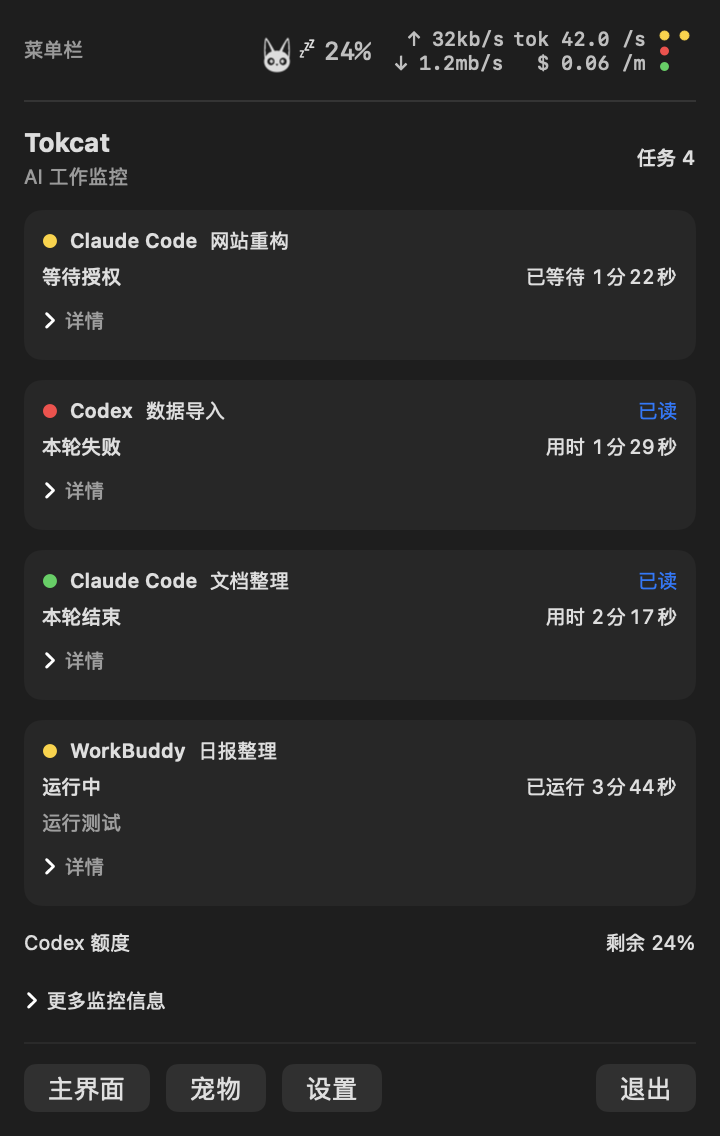
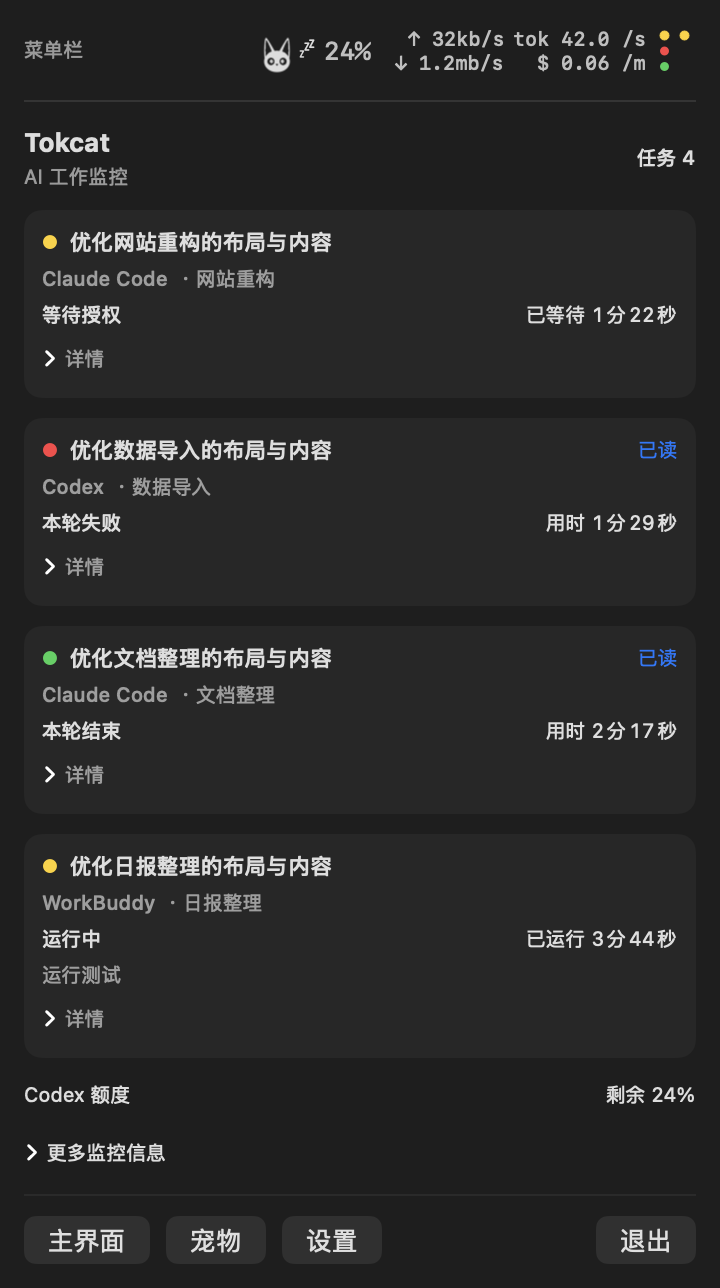
fix: show conversation titles and merge duplicate Codex session identities

diff --git a/Tests/TokcatKitTests/CodexSessionMetadataTests.swift b/Tests/TokcatKitTests/CodexSessionMetadataTests.swift
@@ -1,0 +1,83 @@
+import XCTest
+@testable import TokcatKit
+
+final class CodexSessionMetadataTests: XCTestCase {
+    private func directory() throws -> URL {
+        let url = FileManager.default.temporaryDirectory.appendingPathComponent(UUID().uuidString)
+        try FileManager.default.createDirectory(at: url, withIntermediateDirectories: true)
+        addTeardownBlock { try? FileManager.default.removeItem(at: url) }
+        return url
+    }
+
+    func testLargeHeaderPreservesConversationIdentityAndProject() throws {
+        let url = try directory().appendingPathComponent("rollout.jsonl")
+        let row: [String: Any] = ["type": "session_meta", "payload": ["id": "real-session", "cwd": "/demo",
+            "base_instructions": String(repeating: "x", count: 40_000)]]
+        var data = try JSONSerialization.data(withJSONObject: row); data.append(10)
+        try data.write(to: url)
+        let parser = CodexSessionParser.bootstrap(at: url)
+        XCTAssertEqual(parser.sessionID, "real-session")
+        XCTAssertEqual(parser.projectPath, "/demo")
+    }
+
+    func testOversizedHeaderUsesFirstUUIDInResumedFilename() throws {
+        let id = UUID().uuidString
+        let url = try directory().appendingPathComponent("rollout-2026-09-23T02-00-00-\(id)_\(UUID().uuidString).jsonl")
+        try Data(repeating: 32, count: 1_100_000).write(to: url)
+        XCTAssertEqual(CodexSessionParser.bootstrap(at: url).sessionID, id)
+    }
+
+    func testTitleReaderUsesLatestNameAndRetriesPartialWrite() throws {
+        let url = try directory().appendingPathComponent("session_index.jsonl")
+        let reader = CodexSessionTitleReader(url: url)
+        try Data("{\"id\":\"s\",\"thread_name\":\"旧标题\"}\n".utf8).write(to: url)
+        XCTAssertEqual(reader.read()["s"], "旧标题")
+        try Data("{\"id\":\"s\",\"thread_name\":\"旧标题\"}\n{\"id\":\"s\",\"thread_name\":\"新标题\"}".utf8).write(to: url)
+        XCTAssertEqual(reader.read()["s"], "旧标题")
+        let handle = try FileHandle(forWritingTo: url)
+        try handle.seekToEnd(); try handle.write(contentsOf: Data([10])); try handle.close()
+        XCTAssertEqual(reader.read()["s"], "新标题")
+        XCTAssertEqual(reader.read()["s"], "新标题")
+    }
+
+    func testMonitorRepairsPersistedFilenameDuplicateAndKeepsUnreadHistory() throws {
+        let root = try directory()
+        let logs = root.appendingPathComponent("sessions")
+        let support = root.appendingPathComponent("support")
+        try FileManager.default.createDirectory(at: logs, withIntermediateDirectories: true)
+        try FileManager.default.createDirectory(at: support, withIntermediateDirectories: true)
+        let file = logs.appendingPathComponent("rollout-resumed.jsonl")
+        let now = Date()
+        let old = AgentSession(event: .init(sessionID: "canonical", source: .codexCLI,
+            timestamp: now.addingTimeInterval(-300), kind: .started, turnID: "turn"))
+        var alias = AgentSession(event: .init(sessionID: "rollout-resumed", source: .codexCLI,
+            timestamp: now.addingTimeInterval(-200), kind: .started, turnID: "turn"))
+        alias.apply(.init(sessionID: alias.sessionID, source: .codexCLI,
+                         timestamp: now.addingTimeInterval(-100), kind: .completed, turnID: "turn"))
+        try JSONEncoder().encode([old, alias]).write(to: support.appendingPathComponent("agent-sessions.json"))
+        try JSONEncoder().encode([AgentTaskRecord(session: old), AgentTaskRecord(session: alias)]).write(to: support.appendingPathComponent("agent-task-history.json"))
+        let rows: [[String: Any]] = [
+            ["type": "session_meta", "payload": ["id": "canonical", "cwd": "/demo", "base_instructions": String(repeating: "x", count: 25_000)]],
+            ["type": "ignored", "payload": ["padding": String(repeating: "x", count: 530_000)]],
+            ["type": "event_msg", "timestamp": ISO8601DateFormatter().string(from: now.addingTimeInterval(-100)),
+             "payload": ["type": "task_complete", "turn_id": "turn"]]
+        ]
+        var data = Data()
+        for row in rows { data.append(try JSONSerialization.data(withJSONObject: row)); data.append(10) }
+        try data.write(to: file)
+        try Data("{\"id\":\"canonical\",\"thread_name\":\"真实对话标题\"}\n".utf8).write(to: root.appendingPathComponent("session_index.jsonl"))
+        let monitor = AgentSessionMonitor(codexDirectory: logs, supportDirectory: support,
+                                          recentRoots: [], workBuddyDatabase: nil)
+        let result = monitor.poll(enabled: [.codexCLI], now: now)
+        XCTAssertEqual(result.sessions.count, 1)
+        XCTAssertEqual(result.sessions.first?.sessionID, "canonical")
+        XCTAssertEqual(result.sessions.first?.state, .completed)
+        XCTAssertEqual(result.sessions.first?.unread, true)
+        XCTAssertEqual(result.tasks.count, 1)
+        XCTAssertEqual(result.tasks.first?.displayTitle, "真实对话标题")
+        XCTAssertTrue(result.alerts.isEmpty)
+        let restarted = AgentSessionMonitor(codexDirectory: logs, supportDirectory: support,
+                                            recentRoots: [], workBuddyDatabase: nil)
+        XCTAssertEqual(restarted.poll(enabled: [.codexCLI], now: now).sessions.count, 1)
+    }
+}

diff --git a/Sources/TokcatKit/Monitor/AgentSessionMonitor.swift b/Sources/TokcatKit/Monitor/AgentSessionMonitor.swift
@@ -18,6 +18,7 @@ public final class AgentSessionMonitor {
     private var lastSaved: [AgentSession] = []
     private var history = AgentTaskHistory()
     private var lastSavedTasks: [AgentTaskRecord] = []
+    private let codexTitles: CodexSessionTitleReader
     private let recentReader: RecentAgentTaskReader
     private let workBuddyReader: WorkBuddyTaskReader?
 
@@ -26,6 +27,7 @@ public final class AgentSessionMonitor {
                 recentRoots: [RecentAgentTaskReader.Root] = RecentAgentTaskReader.defaultRoots,
                 workBuddyDatabase: URL? = WorkBuddyTaskReader.defaultDatabaseURL) {
         self.codexDirectory = codexDirectory
+        self.codexTitles = CodexSessionTitleReader(url: codexDirectory.deletingLastPathComponent().appendingPathComponent("session_index.jsonl"))
         self.supportDirectory = supportDirectory
         self.launchedAt = now
         self.recentReader = RecentAgentTaskReader(roots: recentRoots)
@@ -63,12 +65,12 @@ public final class AgentSessionMonitor {
                 let bootstrap = offsets[path] == nil || size < (offsets[path] ?? 0)
                 guard let handle = try? FileHandle(forReadingFrom: info.url) else { continue }
                 defer { try? handle.close() }
-                var parser = parsers[path] ?? CodexSessionParser(sessionID: info.url.deletingPathExtension().lastPathComponent)
+                var parser = bootstrap ? CodexSessionParser.bootstrap(at: info.url)
+                    : (parsers[path] ?? CodexSessionParser.bootstrap(at: info.url))
                 if bootstrap {
-                    // Metadata is at the beginning; the lifecycle tail is bounded independently.
-                    if let prefix = try? handle.read(upToCount: 16_384),
-                       let first = prefix.split(separator: 10).first {
-                        _ = parser.parse(Data(first))
+                    let legacyID = info.url.deletingPathExtension().lastPathComponent
+                    if legacyID != parser.sessionID {
+                        repairCodexIdentity(from: legacyID, to: parser.sessionID)
                     }
                 }
                 let start = bootstrap ? (size > 524_288 ? size - 524_288 : 0) : offsets[path]!
@@ -134,6 +136,7 @@ public final class AgentSessionMonitor {
         }
         sessions = sessions.filter { now.timeIntervalSince($0.value.lastActivityAt) < 7 * 86_400 }
         for record in recentReader.poll(enabled: enabled, now: now) { history.observeActivity(record) }
+        if enabled.contains(.codexCLI) { history.updateTitles(codexTitles.read(), source: .codexCLI) }
         history.prune(now: now)
         firstPoll = false
         previousEnabled = enabled
@@ -159,6 +162,17 @@ public final class AgentSessionMonitor {
            next.state.isWaiting || next.state == .completed || next.state == .failed {
             alerts[id] = next
         }
+    }
+
+    private func repairCodexIdentity(from legacyID: String, to sessionID: String) {
+        let oldKey = AgentSource.codexCLI.rawValue + ":" + legacyID
+        if var legacy = sessions.removeValue(forKey: oldKey) {
+            legacy.sessionID = sessionID
+            if sessions[legacy.id].map({ $0.lastActivityAt < legacy.lastActivityAt }) ?? true {
+                sessions[legacy.id] = legacy
+            }
+        }
+        history.reidentifySession(source: .codexCLI, from: legacyID, to: sessionID)
     }
 
     public func markRead(id: String, enabled: Set<AgentSource>) -> [AgentSession] {

diff --git a/Sources/TokcatKit/Monitor/CodexSessionTitleReader.swift b/Sources/TokcatKit/Monitor/CodexSessionTitleReader.swift
@@ -1,0 +1,39 @@
+import Foundation
+
+/// Read Codex's own conversation names; never derive titles from private message bodies.
+public final class CodexSessionTitleReader {
+    private let url: URL
+    private var signature: String?
+    private var cached: [String: String] = [:]
+
+    public init(url: URL) { self.url = url }
+
+    public func read() -> [String: String] {
+        guard let attributes = try? FileManager.default.attributesOfItem(atPath: url.path),
+              let size = (attributes[.size] as? NSNumber)?.uint64Value,
+              let modified = attributes[.modificationDate] as? Date else { return cached }
+        let next = "\(size):\(modified.timeIntervalSince1970)"
+        guard signature != next else { return cached }
+        guard let handle = try? FileHandle(forReadingFrom: url) else { return cached }
+        defer { try? handle.close() }
+        let start = size > 2_097_152 ? size - 2_097_152 : 0
+        do {
+            try handle.seek(toOffset: start)
+            let data = try handle.read(upToCount: 2_097_152) ?? Data()
+            // Ignore a partial trailing line and retry it after the writer finishes.
+            guard let end = data.lastIndex(of: 10) else { return cached }
+            var lines = data.prefix(through: end).split(separator: 10)
+            if start > 0 && !lines.isEmpty { lines.removeFirst() }
+            var titles: [String: String] = [:]
+            for line in lines {
+                guard let row = try? JSONSerialization.jsonObject(with: Data(line)) as? [String: Any],
+                      let id = row["id"] as? String, let raw = row["thread_name"] as? String else { continue }
+                let title = raw.trimmingCharacters(in: .whitespacesAndNewlines)
+                if !title.isEmpty { titles[id] = String(title.prefix(200)) }
+            }
+            cached = titles
+            signature = next
+        } catch { return cached }
+        return cached
+    }
+}

diff --git a/Tests/TokcatKitTests/AgentConversationReaderTests.swift b/Tests/TokcatKitTests/AgentConversationReaderTests.swift
@@ -91,7 +91,7 @@ final class AgentConversationReaderTests: XCTestCase {
         let id = UUID().uuidString
         let now = Date()
         let ms = Int64(now.timeIntervalSince1970 * 1000)
-        let sql = "CREATE TABLE sessions(id TEXT,cwd TEXT,custom_title TEXT,title TEXT,status TEXT,updated_at INTEGER,last_activity_at INTEGER,model TEXT,deleted_at INTEGER); INSERT INTO sessions VALUES('\(id)','/demo',NULL,'项目检查','Completed',\(ms),\(ms),'hy3',NULL);"
+        let sql = "CREATE TABLE sessions(id TEXT,cwd TEXT,custom_title TEXT,title TEXT,status TEXT,updated_at INTEGER,last_activity_at INTEGER,model TEXT,deleted_at INTEGER); INSERT INTO sessions VALUES('\(id)','/demo','  ','项目检查','Completed',\(ms),\(ms),'hy3',NULL);"
         XCTAssertEqual(sqlite3_exec(db, sql, nil, nil, nil), SQLITE_OK)
         let project = root.appendingPathComponent("demo")
         try FileManager.default.createDirectory(at: project, withIntermediateDirectories: true)
@@ -105,8 +105,9 @@ final class AgentConversationReaderTests: XCTestCase {
         XCTAssertEqual(records[0].title, "项目检查")
         XCTAssertNotNil(records[0].logPath)
         XCTAssertNil(records[0].session.startedAt)
-        XCTAssertEqual(sqlite3_exec(db, "UPDATE sessions SET status='Running',updated_at=\(ms + 6000)", nil, nil, nil), SQLITE_OK)
+        XCTAssertEqual(sqlite3_exec(db, "UPDATE sessions SET status='Running',custom_title='新的对话标题',updated_at=\(ms + 6000)", nil, nil, nil), SQLITE_OK)
         XCTAssertEqual(reader.poll(now: now.addingTimeInterval(6)).first?.session.state, .running)
+        XCTAssertEqual(reader.poll(now: now.addingTimeInterval(6)).first?.title, "新的对话标题")
         XCTAssertEqual(sqlite3_exec(db, "UPDATE sessions SET status='working'", nil, nil, nil), SQLITE_OK)
         let working = try XCTUnwrap(reader.poll(now: now.addingTimeInterval(600)).first?.session)
         XCTAssertEqual(working.state, .running)

diff --git a/Sources/TokcatKit/Monitor/CodexSessionParser.swift b/Sources/TokcatKit/Monitor/CodexSessionParser.swift
@@ -10,6 +10,31 @@ public struct CodexSessionParser {
 
     public init(sessionID: String) { self.sessionID = sessionID }
 
+    /// Rollout headers can contain large instruction blocks. Use a bounded full
+    /// first line, rather than decoding a truncated 16 KB JSON prefix.
+    public static func bootstrap(at url: URL) -> CodexSessionParser {
+        let filename = url.deletingPathExtension().lastPathComponent
+        if let handle = try? FileHandle(forReadingFrom: url) {
+            defer { try? handle.close() }
+            var prefix = Data()
+            while prefix.count < 1_048_576 {
+                guard let chunk = try? handle.read(upToCount: min(16_384, 1_048_576 - prefix.count)), !chunk.isEmpty else { break }
+                prefix.append(chunk)
+                if let end = prefix.firstIndex(of: 10) {
+                    var parser = CodexSessionParser(sessionID: filename)
+                    _ = parser.parse(prefix.prefix(upTo: end))
+                    if parser.sessionID != filename { return parser }
+                    break
+                }
+            }
+        }
+        // Resumed rollout names can contain a second UUID; the first identifies
+        // the original conversation. Do not create a session named after a file.
+        let pattern = "[0-9a-fA-F]{8}-(?:[0-9a-fA-F]{4}-){3}[0-9a-fA-F]{12}"
+        if let range = filename.range(of: pattern, options: .regularExpression) { return CodexSessionParser(sessionID: String(filename[range])) }
+        return CodexSessionParser(sessionID: filename)
+    }
+
     public mutating func parse(_ data: Data) -> AgentSessionEvent? {
         guard let record = (try? JSONSerialization.jsonObject(with: data)) as? [String: Any],
               let type = record["type"] as? String,

diff --git a/App/AgentSessionsView.swift b/App/AgentSessionsView.swift
@@ -100,14 +100,21 @@ private struct AgentSessionRow: View {
                 HStack(spacing: 6) {
                     Image(systemName: state == .unknown || state == .interrupted ? "circle" : "circle.fill")
                         .font(.system(size: 7)).foregroundStyle(SessionPresentation.color(state))
-                    Text(session.source.displayName).font(.caption.weight(.semibold))
-                    Text(session.projectName).font(.caption).lineLimit(1).truncationMode(.middle)
+                    Text(task?.displayTitle ?? session.projectName)
+                        .font(.subheadline.weight(.semibold)).lineLimit(2)
+                        .help(task?.displayTitle ?? session.projectName)
                     Spacer(minLength: 0)
                     if session.unread {
                         Button("已读", action: markRead).buttonStyle(.plain).font(.caption).foregroundStyle(.tint)
                             .help("标为已读并移除顶部栏状态点")
                     }
                 }
+                HStack(spacing: 6) {
+                    Text(session.source.displayName)
+                    if task?.displayTitle != session.projectName {
+                        Text("· " + session.projectName).lineLimit(1).truncationMode(.middle)
+                    }
+                }.font(.caption2).foregroundStyle(.secondary)
                 HStack {
                     Text(state.title).font(.caption.weight(.medium))
                     Spacer()

diff --git a/Sources/TokcatKit/Monitor/AgentTaskHistory.swift b/Sources/TokcatKit/Monitor/AgentTaskHistory.swift
@@ -113,6 +113,25 @@ public struct AgentTaskHistory {
         records.removeValue(forKey: record.session.id + ":observed")
     }
 
+    public mutating func updateTitles(_ titles: [String: String], source: AgentSource) {
+        for (id, task) in records where task.session.source == source {
+            if let title = titles[task.session.sessionID] { records[id]?.title = title }
+        }
+    }
+
+    /// Migrate filename-based identities written by older monitors without dropping
+    /// turn history or replacing a newer canonical record with an older duplicate.
+    public mutating func reidentifySession(source: AgentSource, from oldID: String, to newID: String) {
+        for (id, task) in records where task.session.source == source && task.session.sessionID == oldID {
+            records.removeValue(forKey: id)
+            var migrated = task
+            migrated.session.sessionID = newID
+            migrated.id = migrated.activityOnly ? migrated.session.id + ":observed" : AgentTaskRecord.key(for: migrated.session)
+            if let existing = records[migrated.id], existing.lastActivityAt >= migrated.lastActivityAt { continue }
+            records[migrated.id] = migrated
+        }
+    }
+
     public mutating func prune(now: Date) {
         let keep = records.values.filter { now.timeIntervalSince($0.lastActivityAt) < 30 * 86_400 }
             .sorted { $0.lastActivityAt == $1.lastActivityAt ? $0.id < $1.id : $0.lastActivityAt > $1.lastActivityAt }

diff --git a/Sources/TokcatKit/Monitor/WorkBuddyTaskReader.swift b/Sources/TokcatKit/Monitor/WorkBuddyTaskReader.swift
@@ -26,7 +26,7 @@ public final class WorkBuddyTaskReader {
         }
         defer { sqlite3_close(db) }
         sqlite3_busy_timeout(db, 100)
-        let query = "SELECT id, cwd, COALESCE(custom_title,title,''), status, updated_at, last_activity_at, model FROM sessions WHERE deleted_at IS NULL AND LOWER(status) != 'archived' ORDER BY MAX(updated_at,COALESCE(last_activity_at,0)) DESC LIMIT 500"
+        let query = "SELECT id, cwd, COALESCE(NULLIF(TRIM(custom_title),''),title,''), status, updated_at, last_activity_at, model FROM sessions WHERE deleted_at IS NULL AND LOWER(status) != 'archived' ORDER BY MAX(updated_at,COALESCE(last_activity_at,0)) DESC LIMIT 500"
         var statement: OpaquePointer?
         guard sqlite3_prepare_v2(db, query, -1, &statement, nil) == SQLITE_OK else { return [] }
         defer { sqlite3_finalize(statement) }

diff --git a/App/AgentSessionPreview.swift b/App/AgentSessionPreview.swift
@@ -80,7 +80,9 @@ enum AgentSessionPreview {
                     }
                 } content: {
                     VStack(alignment: .leading, spacing: 12) {
-                        AgentSessionList(sessions: previewTasks, markRead: { _ in })
+                        AgentSessionList(sessions: previewTasks, markRead: { _ in }, tasks: previewTasks.map {
+                            AgentTaskRecord(session: $0, title: "优化" + $0.projectName + "的布局与内容")
+                        })
                         HStack {
                             Text("Codex 额度").font(.caption)
                             Spacer()

diff --git a/Sources/TokcatKit/Monitor/AgentSession.swift b/Sources/TokcatKit/Monitor/AgentSession.swift
@@ -147,6 +147,7 @@ public struct AgentSession: Codable, Equatable, Sendable, Identifiable {
     public init(event: AgentSessionEvent, historical: Bool = false) {
         sessionID = event.sessionID
         source = event.source
+        turnID = event.turnID
         lastActivityAt = event.timestamp
         apply(event, historical: historical)
     }

diff --git a/README.md b/README.md
@@ -45,7 +45,7 @@ Task dots appear **after the selected monitoring metrics**. Each column holds up
 | Red | Failed |
 | Hollow gray | Updates unavailable or turn interrupted |
 
-Click to inspect project, session, elapsed time, waiting time, and recent activity. Switching to a recognized Codex, WorkBuddy / WorkBuddy AI, or Claude desktop app for at least 1.5 seconds clears that agent's pre-existing completed reminders. Generic terminals cannot identify the agent inside, so manual acknowledgement remains available. Read state survives restarts.
+The dropdown shows each conversation title first, followed by its agent, project, state, elapsed time, and recent activity. Codex titles come from its local session index; WorkBuddy uses its local database title. When no title is available, the project name is shown. Switching to a recognized Codex, WorkBuddy / WorkBuddy AI, or Claude desktop app for at least 1.5 seconds clears that agent's pre-existing completed reminders. Generic terminals cannot identify the agent inside, so manual acknowledgement remains available. Read state survives restarts.
 
 Task dots and CPU / GPU / memory / network / token / cost metrics are independently configurable. Optional native notifications surface completion and waiting states; historical notifications are not replayed at startup. The optional Codex quota display adds 5-hour and weekly remaining percentages and reset times when local login information is available.
 

diff --git a/README.zh-CN.md b/README.zh-CN.md
@@ -45,7 +45,7 @@
 | 红色 | 失败 |
 | 灰色空心 | 暂无更新或已中断 |
 
-点击可查看项目、会话、耗时、等待时间及最近活动。切回已识别的 Codex、WorkBuddy / WorkBuddy AI、Claude 桌面应用并停留至少 1.5 秒，会按 Agent 清除进入应用前已完成的绿点。普通终端无法区分其中的 Agent，仍可手动标为已读；已读状态重启后保留。
+下拉栏优先显示对话标题，并列出 Agent、项目、状态、耗时及最近活动。Codex 标题读取自本地会话索引，WorkBuddy 使用本地数据库标题；没有标题时回退显示项目名。切回已识别的 Codex、WorkBuddy / WorkBuddy AI、Claude 桌面应用并停留至少 1.5 秒，会按 Agent 清除进入应用前已完成的绿点。普通终端无法区分其中的 Agent，仍可手动标为已读；已读状态重启后保留。
 
 任务点与 CPU / GPU / 内存 / 网速 / Token / 费用指标可分别开关。可选系统通知用于提醒任务结束或等待操作，启动时不重放历史通知。本机有 Codex 登录信息时，还可显示 5 小时与周窗口的剩余额度和重置时间。
 
